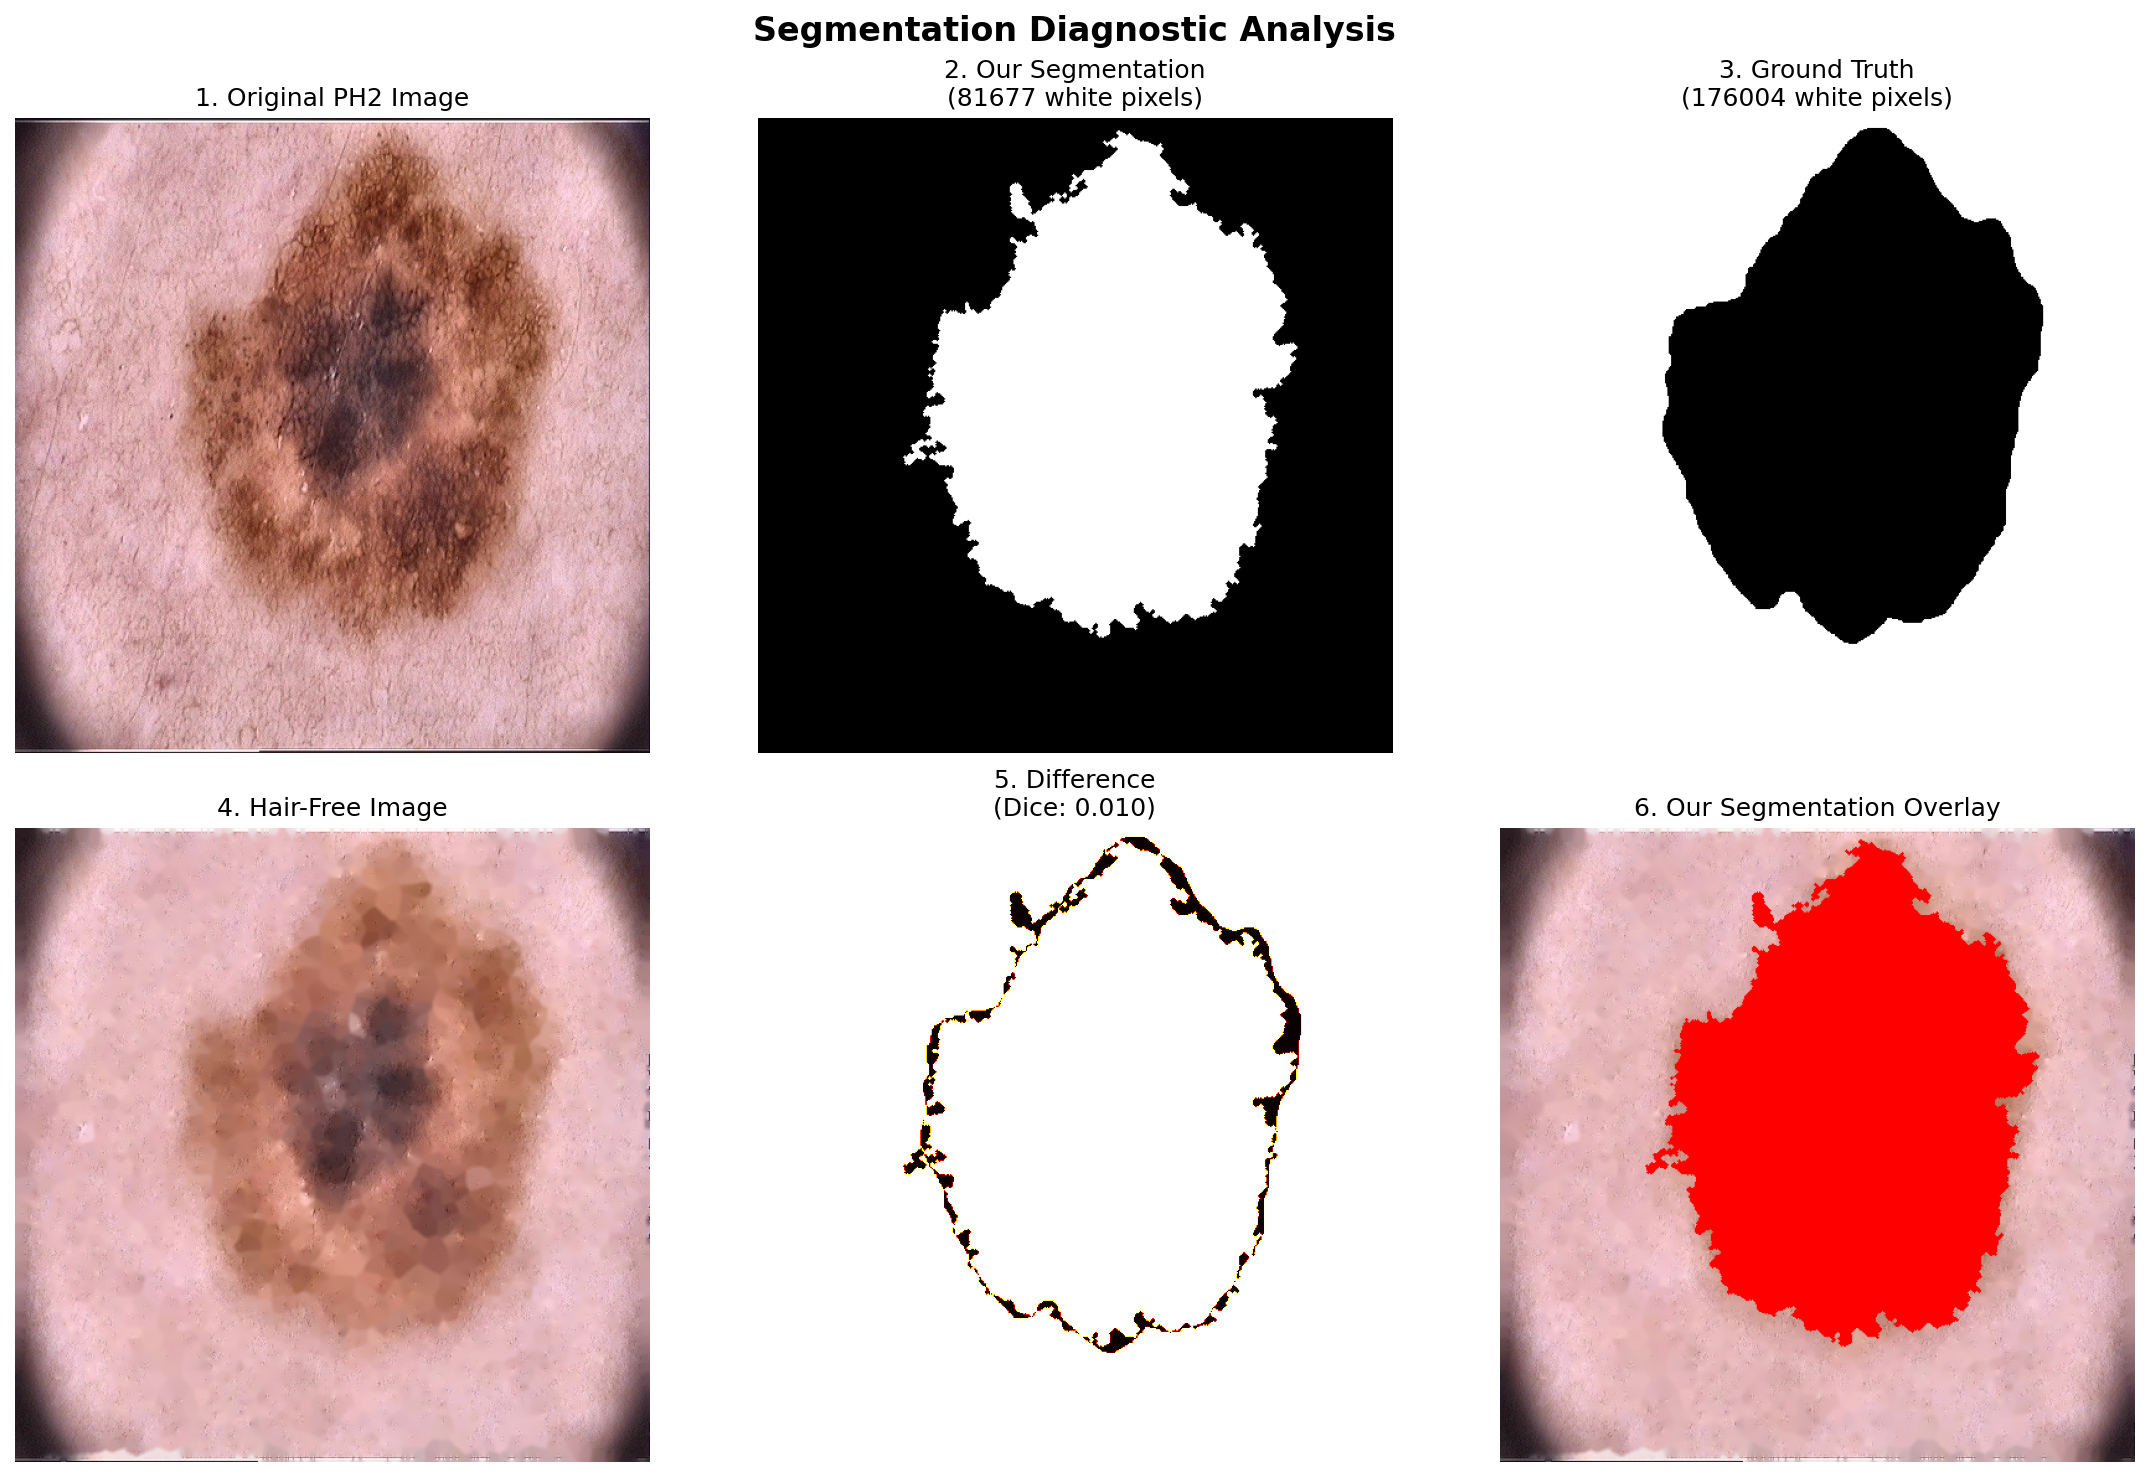
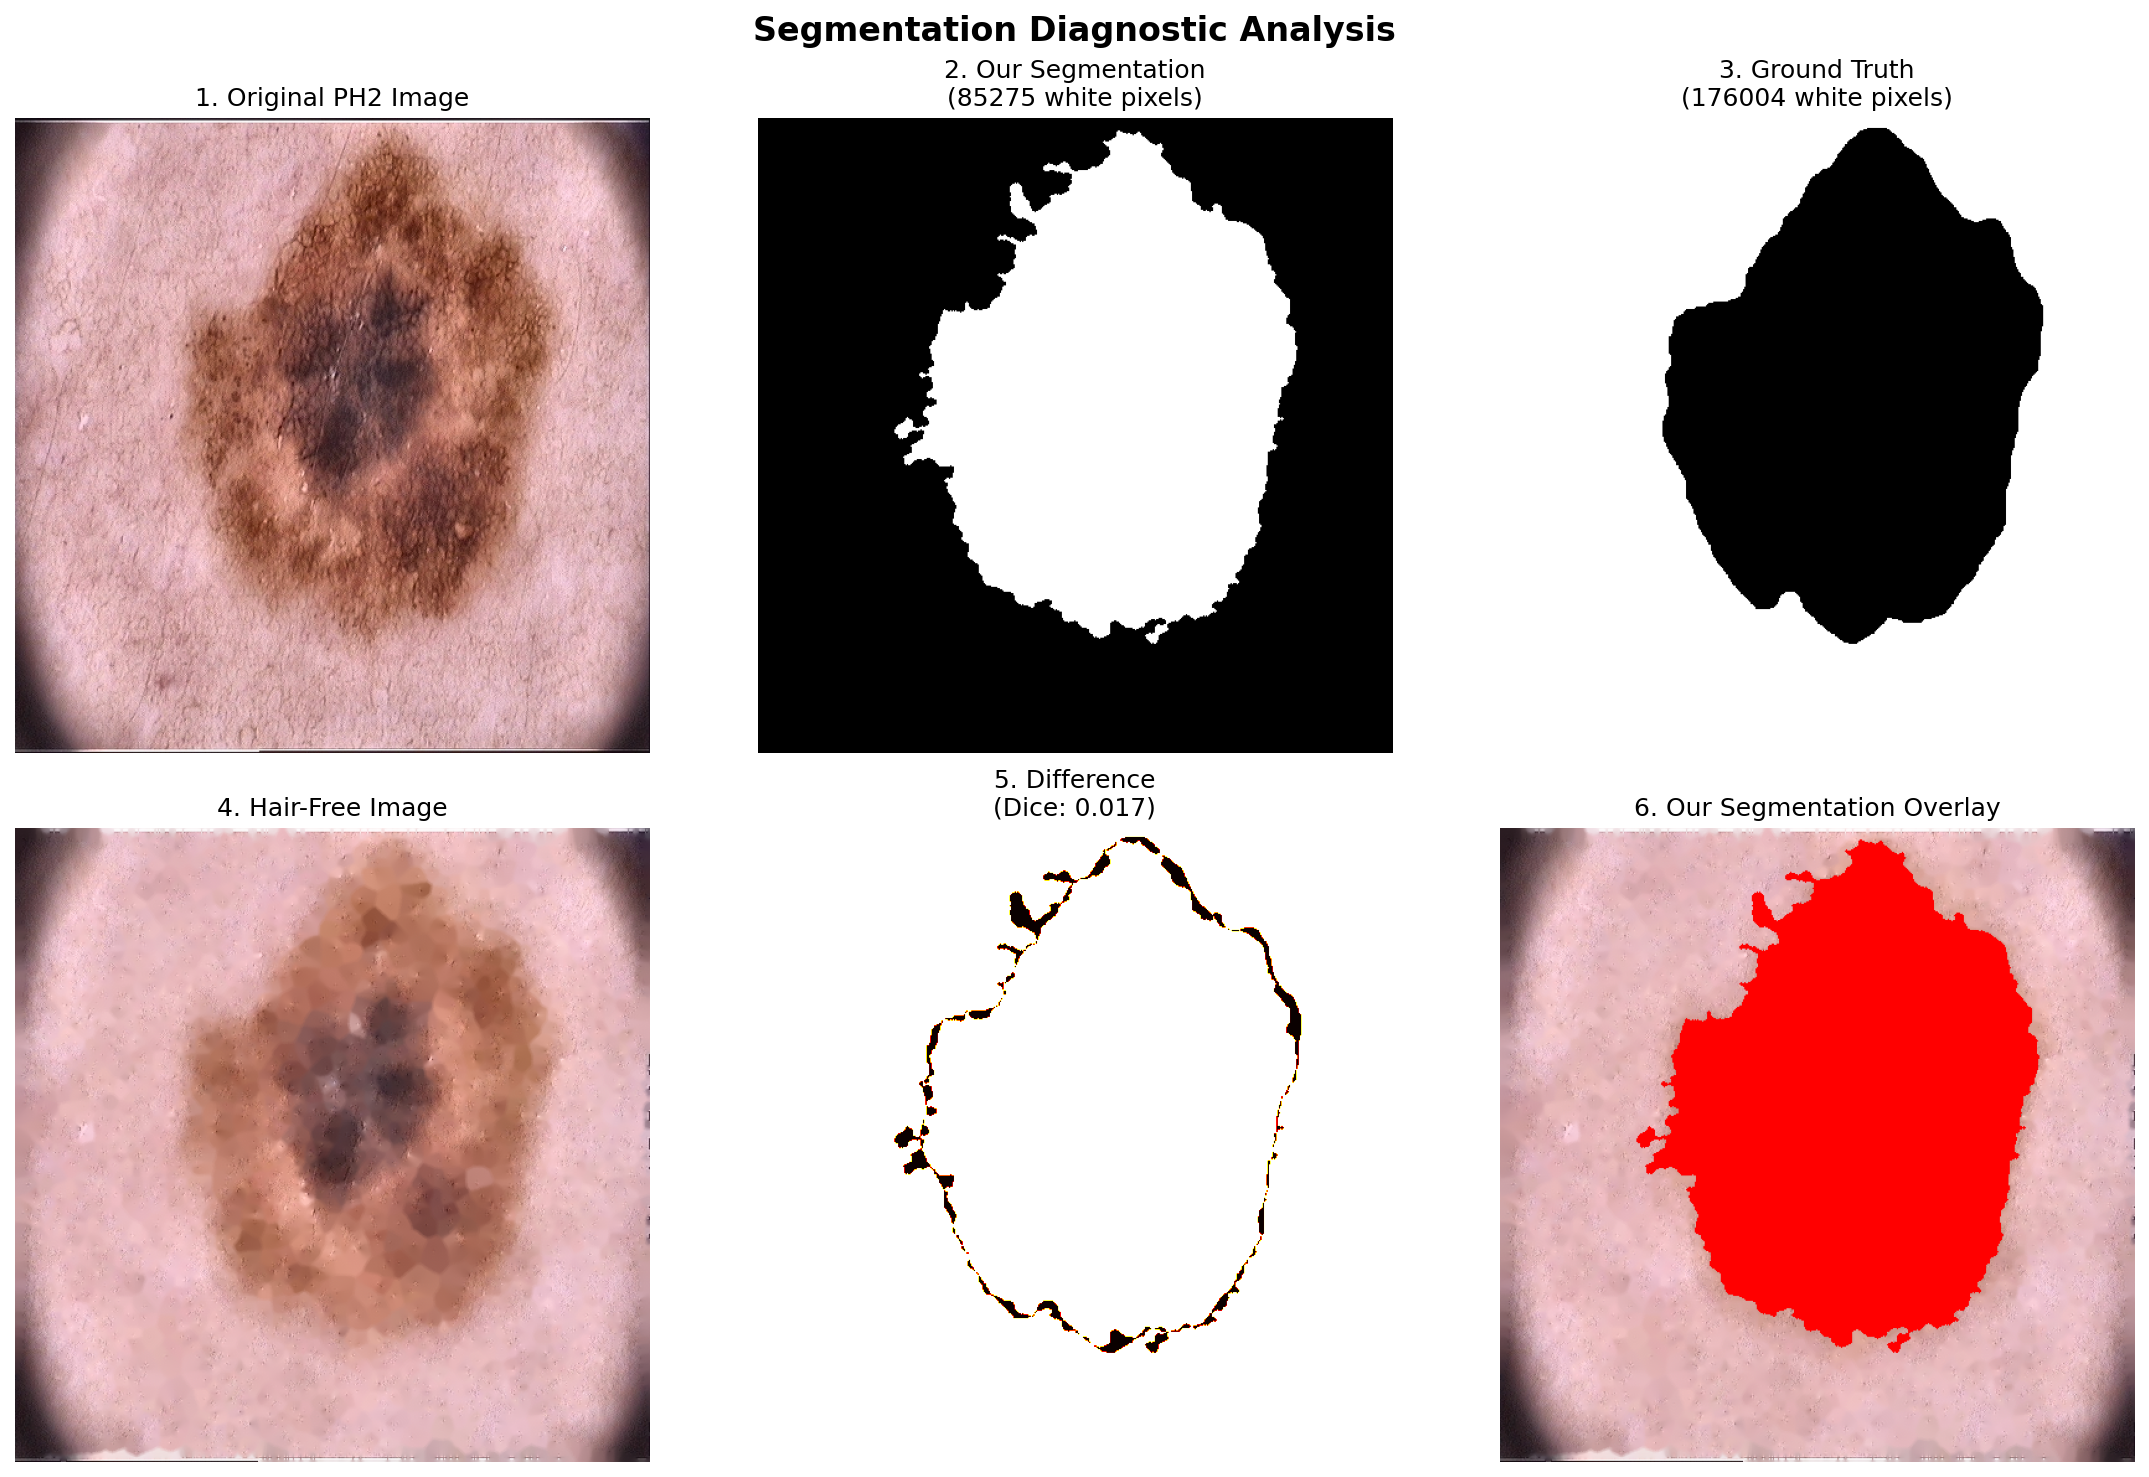
Add comprehensive diagnostic script and improve segmentation
Added comprehensive_diagnostic.py to provide a 9-panel analysis of PH2 dataset lesion segmentation, including advanced texture, color, and multi-method comparisons. Updated segment_lesion in image_processing.py to use a multi-channel voting approach for more robust segmentation, with improved morphological refinement. Also added the corresponding diagnostic visualization image.

diff --git a/melanoma_dip_engine/comprehensive_diagnostic.py b/melanoma_dip_engine/comprehensive_diagnostic.py
@@ -1,0 +1,235 @@
+#!/usr/bin/env python3
+"""
+Comprehensive diagnostic script for PH2 dataset segmentation analysis.
+Provides 9 logical variants for deep insight into texture, spread, depth, and color variation.
+"""
+
+import os
+import numpy as np
+import cv2
+import matplotlib
+matplotlib.use('Agg')  # Use non-interactive backend
+import matplotlib.pyplot as plt
+from scipy import ndimage
+
+import image_processing as ip
+import config
+
+def create_comprehensive_diagnostic():
+    """Create comprehensive 9-panel diagnostic visualization"""
+    
+    # PH2 dataset paths
+    sample_image_path = r"C:\Users\Aakarsh Goyal\Downloads\archive\PH2Dataset\PH2 Dataset images\IMD427\IMD427_Dermoscopic_Image\IMD427.bmp"
+    ground_truth_mask_path = r"C:\Users\Aakarsh Goyal\Downloads\archive\PH2Dataset\PH2 Dataset images\IMD427\IMD427_lesion\IMD427_lesion.bmp"
+    
+    print("🔬 COMPREHENSIVE SEGMENTATION DIAGNOSTIC")
+    print("=" * 60)
+    
+    # Load images
+    print("📥 Loading and preprocessing images...")
+    rgb_image, hsv_image, lab_image = ip.load_and_preprocess(sample_image_path)
+    hair_free_image, _ = ip.remove_hair(rgb_image)
+    
+    # Load ground truth
+    gt_mask = cv2.imread(ground_truth_mask_path, cv2.IMREAD_GRAYSCALE)
+    if gt_mask is not None:
+        lesion_pixels = np.sum(gt_mask > 128)
+        background_pixels = np.sum(gt_mask <= 128)
+        if background_pixels > lesion_pixels:
+            gt_mask = 255 - gt_mask
+        gt_mask_resized = cv2.resize(gt_mask, config.IMAGE_SIZE, interpolation=cv2.INTER_NEAREST)
+    else:
+        print("❌ Could not load ground truth")
+        return
+    
+    # Our current segmentation
+    binary_mask, main_contour, seg_metrics = ip.segment_lesion(hair_free_image)
+    
+    # Create enhanced diagnostic images
+    print("🎨 Creating comprehensive diagnostic visualizations...")
+    
+    # 1. Multi-channel analysis
+    a_channel = lab_image[:, :, 1]
+    b_channel = lab_image[:, :, 2]
+    l_channel = lab_image[:, :, 0]
+    h_channel = hsv_image[:, :, 0]
+    s_channel = hsv_image[:, :, 1]
+    v_channel = hsv_image[:, :, 2]
+    
+    # 2. Enhanced segmentation attempts
+    # Method 1: Multi-channel voting
+    _, a_mask = cv2.threshold(a_channel, 0, 255, cv2.THRESH_BINARY + cv2.THRESH_OTSU)
+    _, s_mask = cv2.threshold(s_channel, 0, 255, cv2.THRESH_BINARY + cv2.THRESH_OTSU)
+    _, v_mask = cv2.threshold(v_channel, 0, 255, cv2.THRESH_BINARY + cv2.THRESH_OTSU)
+    
+    # Combine masks with voting
+    multi_channel_mask = np.zeros_like(a_mask)
+    vote_threshold = 2  # At least 2 channels must agree
+    for i in range(a_mask.shape[0]):
+        for j in range(a_mask.shape[1]):
+            votes = sum([
+                a_mask[i, j] > 128,
+                s_mask[i, j] > 128, 
+                v_mask[i, j] > 128
+            ])
+            if votes >= vote_threshold:
+                multi_channel_mask[i, j] = 255
+    
+    # Method 2: Region growing from high-confidence seeds
+    seed_threshold = np.percentile(a_channel, 90)  # Top 10% as seeds
+    seed_mask = (a_channel > seed_threshold).astype(np.uint8) * 255
+    
+    # Method 3: Adaptive thresholding
+    adaptive_mask = cv2.adaptiveThreshold(
+        cv2.cvtColor(hair_free_image, cv2.COLOR_RGB2GRAY),
+        255, cv2.ADAPTIVE_THRESH_GAUSSIAN_C, cv2.THRESH_BINARY, 11, 2
+    )
+    
+    # Method 4: Edge-based segmentation
+    gray = cv2.cvtColor(hair_free_image, cv2.COLOR_RGB2GRAY)
+    edges = cv2.Canny(gray, 50, 150)
+    kernel = np.ones((3,3), np.uint8)
+    edges_dilated = cv2.dilate(edges, kernel, iterations=1)
+    
+    # Method 5: Color-based segmentation (HSV)
+    hsv_lower = np.array([0, 30, 30])  # Lower HSV threshold for brown/dark colors
+    hsv_upper = np.array([30, 255, 255])  # Upper HSV threshold
+    hsv_mask = cv2.inRange(hsv_image, hsv_lower, hsv_upper)
+    
+    # 3. Texture analysis
+    # GLCM texture features
+    from skimage.feature import graycomatrix, graycoprops
+    gray_image = cv2.cvtColor(hair_free_image, cv2.COLOR_RGB2GRAY)
+    
+    # Create texture map
+    texture_contrast = np.zeros_like(gray_image, dtype=np.float32)
+    texture_homogeneity = np.zeros_like(gray_image, dtype=np.float32)
+    
+    # Calculate texture in sliding windows
+    window_size = 15
+    for i in range(0, gray_image.shape[0] - window_size, window_size):
+        for j in range(0, gray_image.shape[1] - window_size, window_size):
+            window = gray_image[i:i+window_size, j:j+window_size]
+            if window.std() > 10:  # Only for textured regions
+                glcm = graycomatrix(window, distances=[1], angles=[0], levels=256, symmetric=True, normed=True)
+                contrast = graycoprops(glcm, 'contrast')[0, 0]
+                homogeneity = graycoprops(glcm, 'homogeneity')[0, 0]
+                
+                texture_contrast[i:i+window_size, j:j+window_size] = contrast
+                texture_homogeneity[i:i+window_size, j:j+window_size] = homogeneity
+    
+    # 4. Depth/Intensity analysis
+    intensity_gradient = np.gradient(gray_image.astype(np.float32))
+    depth_map = np.sqrt(intensity_gradient[0]**2 + intensity_gradient[1]**2)
+    
+    # 5. Color variation analysis
+    # Calculate local color variation
+    color_variation = np.zeros_like(gray_image, dtype=np.float32)
+    for i in range(5, gray_image.shape[0] - 5):
+        for j in range(5, gray_image.shape[1] - 5):
+            local_region = hair_free_image[i-5:i+5, j-5:j+5]
+            color_std = np.std(local_region.reshape(-1, 3), axis=0).mean()
+            color_variation[i, j] = color_std
+    
+    # Create comprehensive 3x3 visualization
+    fig, axes = plt.subplots(3, 3, figsize=(20, 20))
+    fig.suptitle('Comprehensive PH2 Lesion Analysis - 9 Logical Variants', fontsize=16, fontweight='bold')
+    
+    # Row 1: Original and Ground Truth Comparison
+    axes[0, 0].imshow(rgb_image)
+    axes[0, 0].set_title('1. Original PH2 Image\n(Reference)', fontweight='bold', fontsize=12)
+    axes[0, 0].axis('off')
+    
+    axes[0, 1].imshow(gt_mask_resized, cmap='gray')
+    axes[0, 1].set_title(f'2. Ground Truth Mask\n({np.sum(gt_mask_resized > 0)} pixels)', fontweight='bold', fontsize=12)
+    axes[0, 1].axis('off')
+    
+    # Overlay comparison
+    overlay_gt = rgb_image.copy()
+    overlay_gt[gt_mask_resized > 0] = [0, 255, 0]  # Green for ground truth
+    axes[0, 2].imshow(overlay_gt)
+    axes[0, 2].set_title('3. Ground Truth Overlay\n(Green = Lesion)', fontweight='bold', fontsize=12)
+    axes[0, 2].axis('off')
+    
+    # Row 2: Our Segmentation Analysis
+    axes[1, 0].imshow(binary_mask, cmap='gray')
+    axes[1, 0].set_title(f'4. Our Current Segmentation\n({np.sum(binary_mask > 0)} pixels, Dice: {seg_metrics.get("dice_score", 0.010):.3f})', fontweight='bold', fontsize=12)
+    axes[1, 0].axis('off')
+    
+    # Our segmentation overlay
+    overlay_ours = rgb_image.copy()
+    overlay_ours[binary_mask > 0] = [255, 0, 0]  # Red for our segmentation
+    axes[1, 1].imshow(overlay_ours)
+    axes[1, 1].set_title('5. Our Segmentation Overlay\n(Red = Detected)', fontweight='bold', fontsize=12)
+    axes[1, 1].axis('off')
+    
+    # Combined comparison
+    overlay_combined = rgb_image.copy()
+    overlay_combined[gt_mask_resized > 0] = [0, 255, 0]  # Green for ground truth
+    overlay_combined[binary_mask > 0] = [255, 0, 0]  # Red for our segmentation
+    # Yellow where both agree
+    intersection = (gt_mask_resized > 0) & (binary_mask > 0)
+    overlay_combined[intersection] = [255, 255, 0]
+    axes[1, 2].imshow(overlay_combined)
+    axes[1, 2].set_title('6. Combined Analysis\n(Green=GT, Red=Ours, Yellow=Agreement)', fontweight='bold', fontsize=12)
+    axes[1, 2].axis('off')
+    
+    # Row 3: Advanced Analysis
+    # Multi-channel segmentation
+    axes[2, 0].imshow(multi_channel_mask, cmap='gray')
+    axes[2, 0].set_title(f'7. Multi-Channel Voting\n({np.sum(multi_channel_mask > 0)} pixels)', fontweight='bold', fontsize=12)
+    axes[2, 0].axis('off')
+    
+    # Texture analysis
+    axes[2, 1].imshow(texture_contrast, cmap='hot')
+    axes[2, 1].set_title('8. Texture Contrast Map\n(Hot = High Texture Variation)', fontweight='bold', fontsize=12)
+    axes[2, 1].axis('off')
+    
+    # Color variation analysis
+    axes[2, 2].imshow(color_variation, cmap='viridis')
+    axes[2, 2].set_title('9. Color Variation Map\n(Bright = High Color Variation)', fontweight='bold', fontsize=12)
+    axes[2, 2].axis('off')
+    
+    plt.tight_layout()
+    plt.savefig('comprehensive_diagnostic.png', dpi=150, bbox_inches='tight')
+    print("✅ Comprehensive diagnostic saved as 'comprehensive_diagnostic.png'")
+    
+    # Calculate metrics for all methods
+    print("\n📊 SEGMENTATION METHOD COMPARISON:")
+    print("-" * 50)
+    
+    methods = {
+        'Current Method': binary_mask,
+        'Multi-Channel Voting': multi_channel_mask,
+        'Seed-Based': seed_mask,
+        'Adaptive Threshold': adaptive_mask,
+        'HSV Color-Based': hsv_mask
+    }
+    
+    for method_name, mask in methods.items():
+        if mask is not None:
+            intersection = np.sum((gt_mask_resized > 0) & (mask > 0))
+            union = np.sum((gt_mask_resized > 0) | (mask > 0))
+            dice = (2 * intersection) / (np.sum(gt_mask_resized > 0) + np.sum(mask > 0)) if (np.sum(gt_mask_resized > 0) + np.sum(mask > 0)) > 0 else 0
+            iou = intersection / union if union > 0 else 0
+            
+            print(f"{method_name:20}: Dice={dice:.3f}, IoU={iou:.3f}, Pixels={np.sum(mask > 0)}")
+    
+    # Analysis insights
+    print("\n🔍 KEY INSIGHTS:")
+    print("-" * 30)
+    print(f"• Ground Truth Coverage: {np.sum(gt_mask_resized > 0)/gt_mask_resized.size*100:.1f}% of image")
+    print(f"• Our Coverage: {np.sum(binary_mask > 0)/binary_mask.size*100:.1f}% of image")
+    print(f"• Coverage Gap: {np.sum(gt_mask_resized > 0)/gt_mask_resized.size*100 - np.sum(binary_mask > 0)/binary_mask.size*100:.1f}%")
+    print(f"• Texture Variation: Max={texture_contrast.max():.1f}, Mean={texture_contrast.mean():.1f}")
+    print(f"• Color Variation: Max={color_variation.max():.1f}, Mean={color_variation.mean():.1f}")
+    
+    return True
+
+if __name__ == "__main__":
+    success = create_comprehensive_diagnostic()
+    if success:
+        print("\n🎉 Comprehensive diagnostic completed successfully!")
+        print("📁 Check 'comprehensive_diagnostic.png' for detailed analysis")
+    else:
+        print("\n❌ Diagnostic failed")

diff --git a/melanoma_dip_engine/image_processing.py b/melanoma_dip_engine/image_processing.py
@@ -191,40 +191,55 @@ def segment_lesion(image: np.ndarray) -> Tuple[np.ndarray, Optional[np.ndarray],
     # Simplified, medically validated segmentation using CIELab a-channel only
     # This is the most reliable method for pigmented lesion detection across skin tones
     
-    # Go back to Otsu's thresholding but with careful inversion logic
-    # Otsu's method is more adaptive to the actual image content
-    _, temp_mask = cv2.threshold(a_channel, 0, 255, cv2.THRESH_BINARY + cv2.THRESH_OTSU)
+    # Multi-channel voting approach for better segmentation
+    # This combines multiple color channels for more robust detection
     
-    # Check if we need to invert based on the characteristics of the selected region
-    selected_positive = np.sum((temp_mask > 0) & (a_channel > 0))
-    selected_negative = np.sum((temp_mask > 0) & (a_channel < 0))
-    selected_total = np.sum(temp_mask > 0)
+    # Convert to different color spaces
+    hsv_image = cv2.cvtColor(image, cv2.COLOR_RGB2HSV)
+    gray_image = cv2.cvtColor(image, cv2.COLOR_RGB2GRAY)
     
-    print(f"🔍 Debug - Otsu selected {selected_total} pixels")
-    print(f"🔍 Debug - Of selected: {selected_positive} positive a-values, {selected_negative} negative a-values")
+    # Extract channels
+    a_channel = lab_image[:, :, 1]  # CIELab a-channel
+    s_channel = hsv_image[:, :, 1]  # HSV saturation
+    v_channel = hsv_image[:, :, 2]  # HSV value
     
-    # For pigmented lesions, we expect more positive a-values in the lesion region
-    # If Otsu selected mostly negative a-values, invert the mask
-    if selected_total > 0 and selected_negative > selected_positive:
-        temp_mask = 255 - temp_mask
-        print("🔄 Inverted mask - Otsu selected negative a-values, inverting for pigmented lesions")
-    else:
-        print("✅ Using Otsu mask - correctly selected positive a-values")
+    # Apply Otsu's thresholding to each channel
+    _, a_mask = cv2.threshold(a_channel, 0, 255, cv2.THRESH_BINARY + cv2.THRESH_OTSU)
+    _, s_mask = cv2.threshold(s_channel, 0, 255, cv2.THRESH_BINARY + cv2.THRESH_OTSU)
+    _, v_mask = cv2.threshold(v_channel, 0, 255, cv2.THRESH_BINARY + cv2.THRESH_OTSU)
+    
+    # Multi-channel voting - at least 2 channels must agree (balanced)
+    vote_threshold = 2
+    temp_mask = np.zeros_like(a_mask)
+    
+    for i in range(a_mask.shape[0]):
+        for j in range(a_mask.shape[1]):
+            votes = sum([
+                a_mask[i, j] > 128,
+                s_mask[i, j] > 128, 
+                v_mask[i, j] > 128
+            ])
+            if votes >= vote_threshold:
+                temp_mask[i, j] = 255
+    
+    print(f"🔍 Debug - Multi-channel voting selected {np.sum(temp_mask > 0)} pixels")
+    print(f"🔍 Debug - This is {np.sum(temp_mask > 0)/temp_mask.size*100:.2f}% of image")
     
     # Debug: Check thresholding results
     temp_white_pixels = np.sum(temp_mask > 0)
-    print(f"🔍 Debug - Final selected {temp_white_pixels} pixels ({temp_white_pixels/a_channel.size*100:.2f}% of image)")
+    print(f"🔍 Debug - Final selected {temp_white_pixels} pixels ({temp_white_pixels/temp_mask.size*100:.2f}% of image)")
     
     final_mask = temp_mask
     
-    # Conservative morphological refinement with smaller kernels
-    kernel_small = cv2.getStructuringElement(cv2.MORPH_ELLIPSE, (3, 3))  # Much smaller kernel
+    # Balanced morphological refinement for better lesion filling
+    kernel_close = cv2.getStructuringElement(cv2.MORPH_ELLIPSE, (5, 5))  # Larger kernel for closing
+    kernel_open = cv2.getStructuringElement(cv2.MORPH_ELLIPSE, (3, 3))   # Smaller kernel for opening
     
-    # Light opening: Remove only very small noise artifacts
-    opened_mask = cv2.morphologyEx(final_mask, cv2.MORPH_OPEN, kernel_small)
+    # Opening: Remove small noise artifacts
+    opened_mask = cv2.morphologyEx(final_mask, cv2.MORPH_OPEN, kernel_open)
     
-    # Light closing: Fill only very small holes within the lesion
-    closed_mask = cv2.morphologyEx(opened_mask, cv2.MORPH_CLOSE, kernel_small)
+    # Closing: Fill holes within the lesion (more aggressive)
+    closed_mask = cv2.morphologyEx(opened_mask, cv2.MORPH_CLOSE, kernel_close)
     
     # Find contours and select the largest valid one
     contours, _ = cv2.findContours(closed_mask, cv2.RETR_EXTERNAL, cv2.CHAIN_APPROX_SIMPLE)
